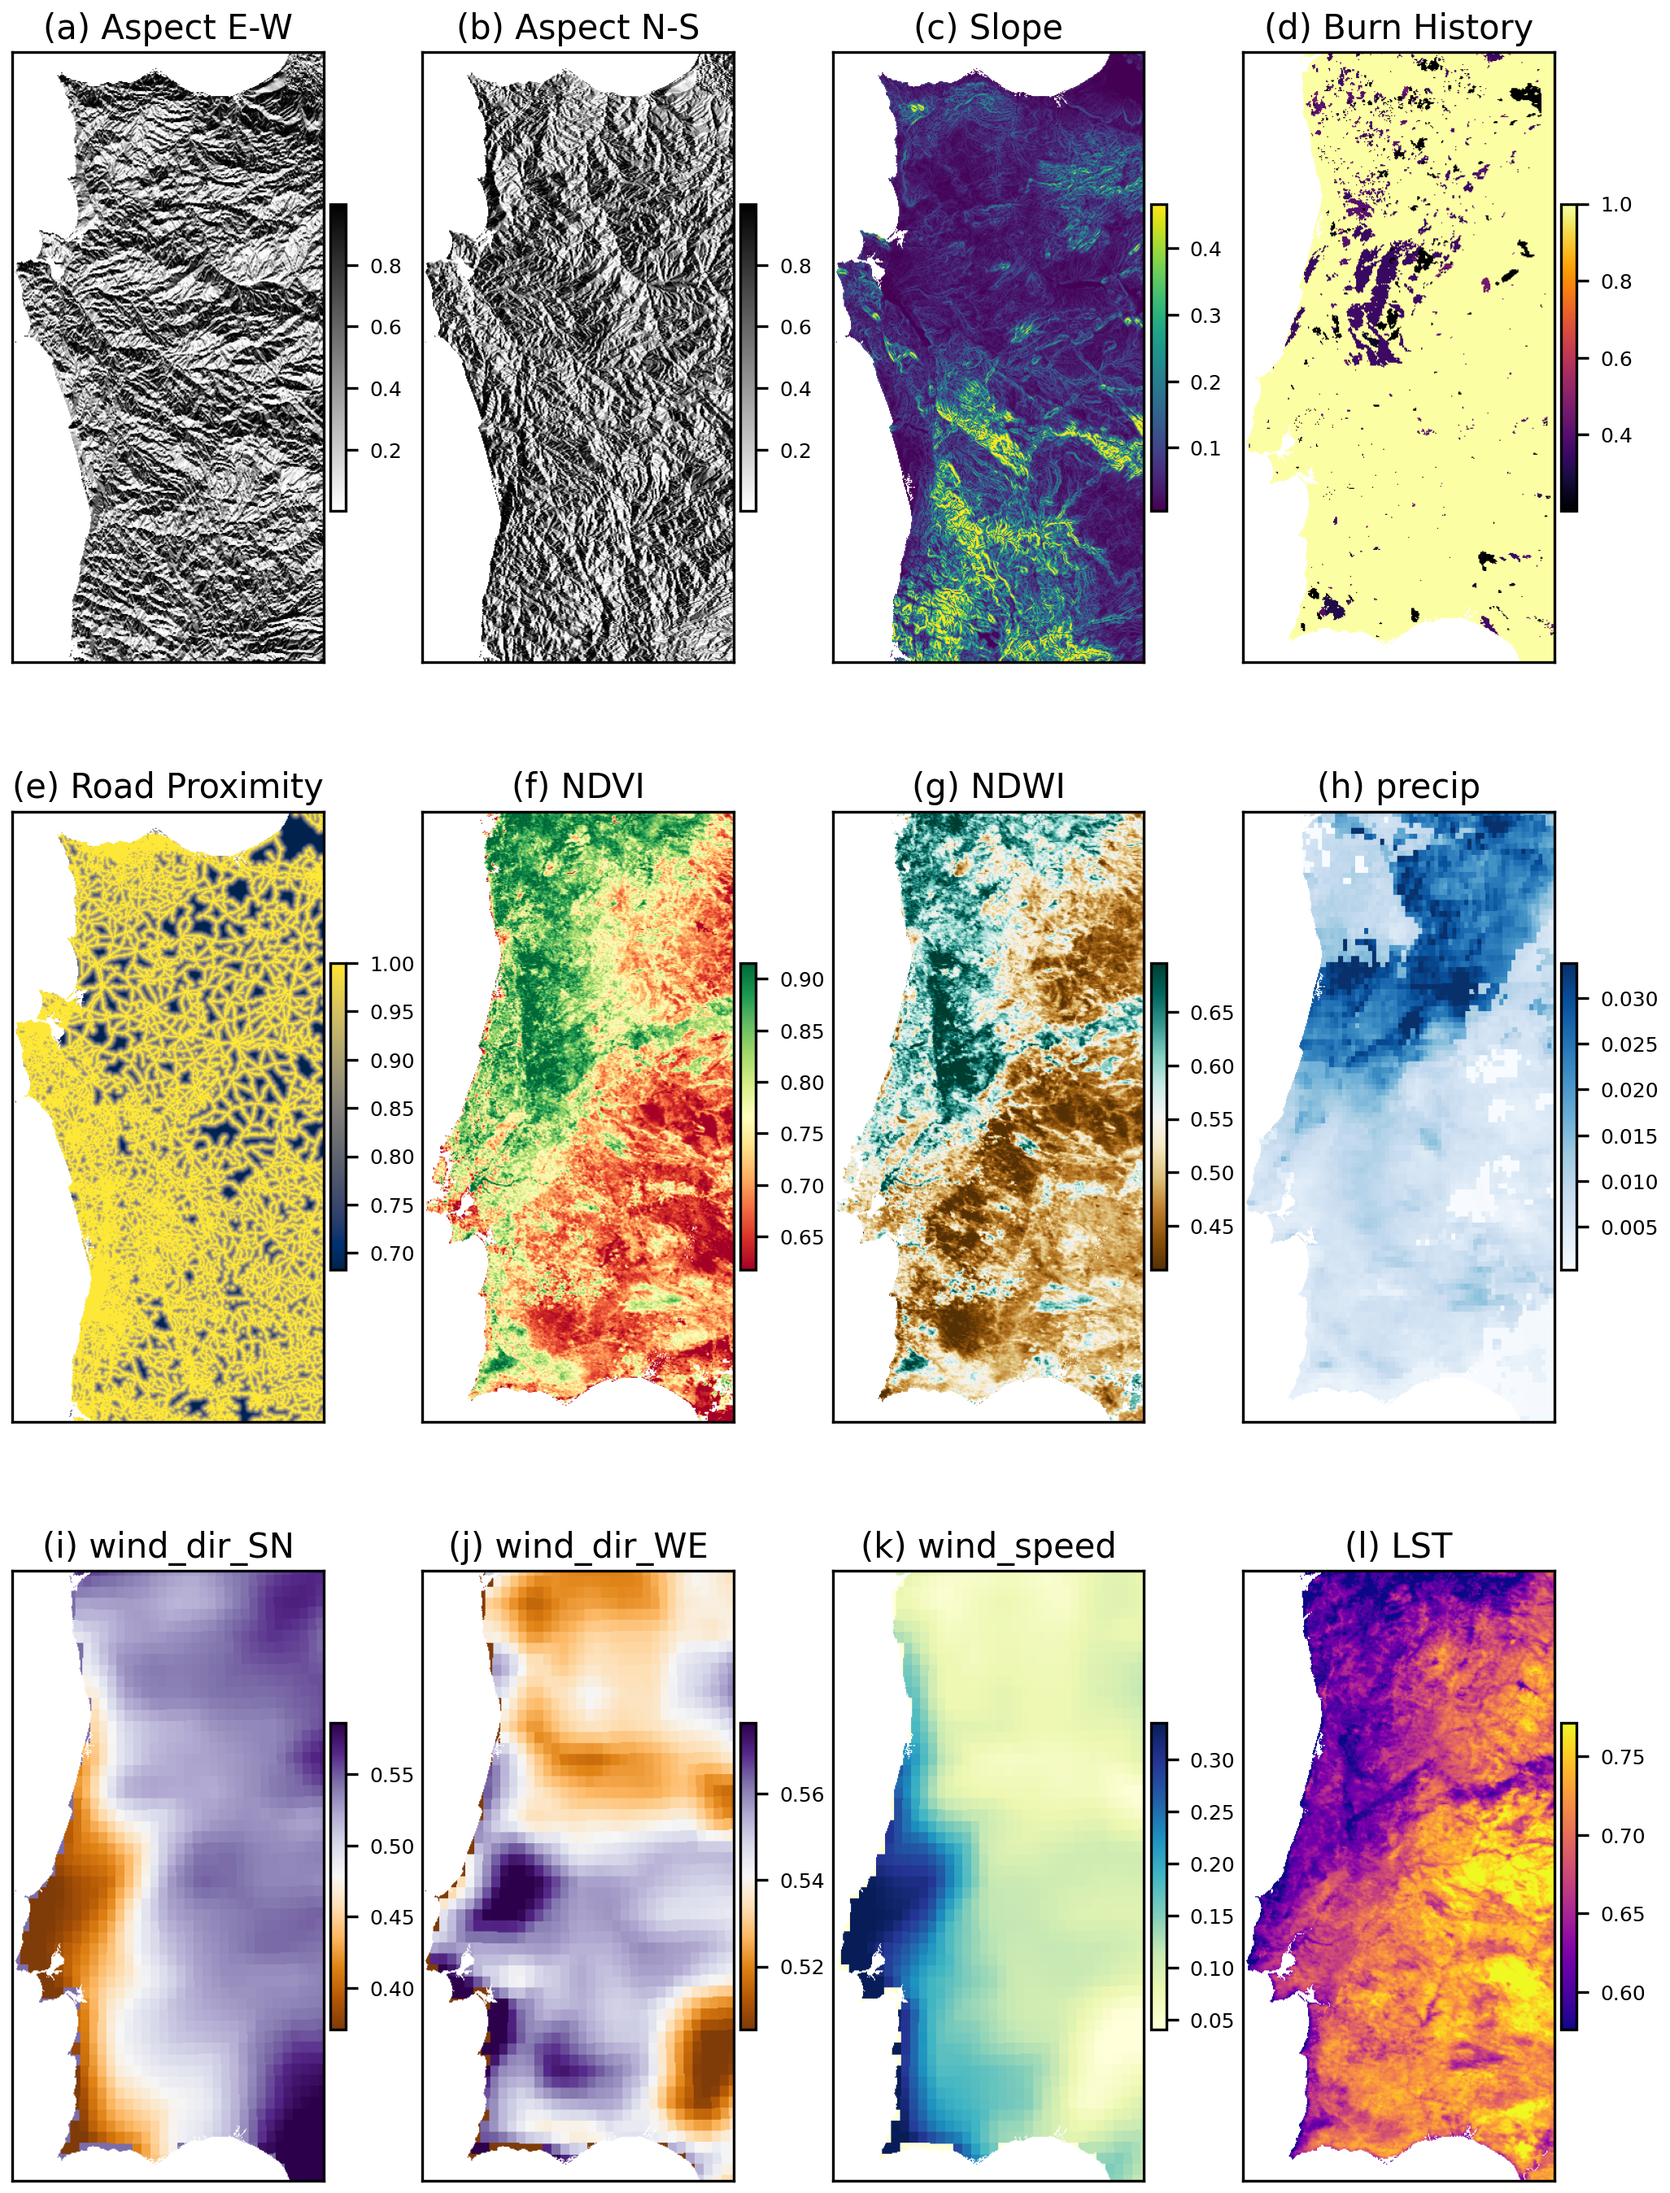
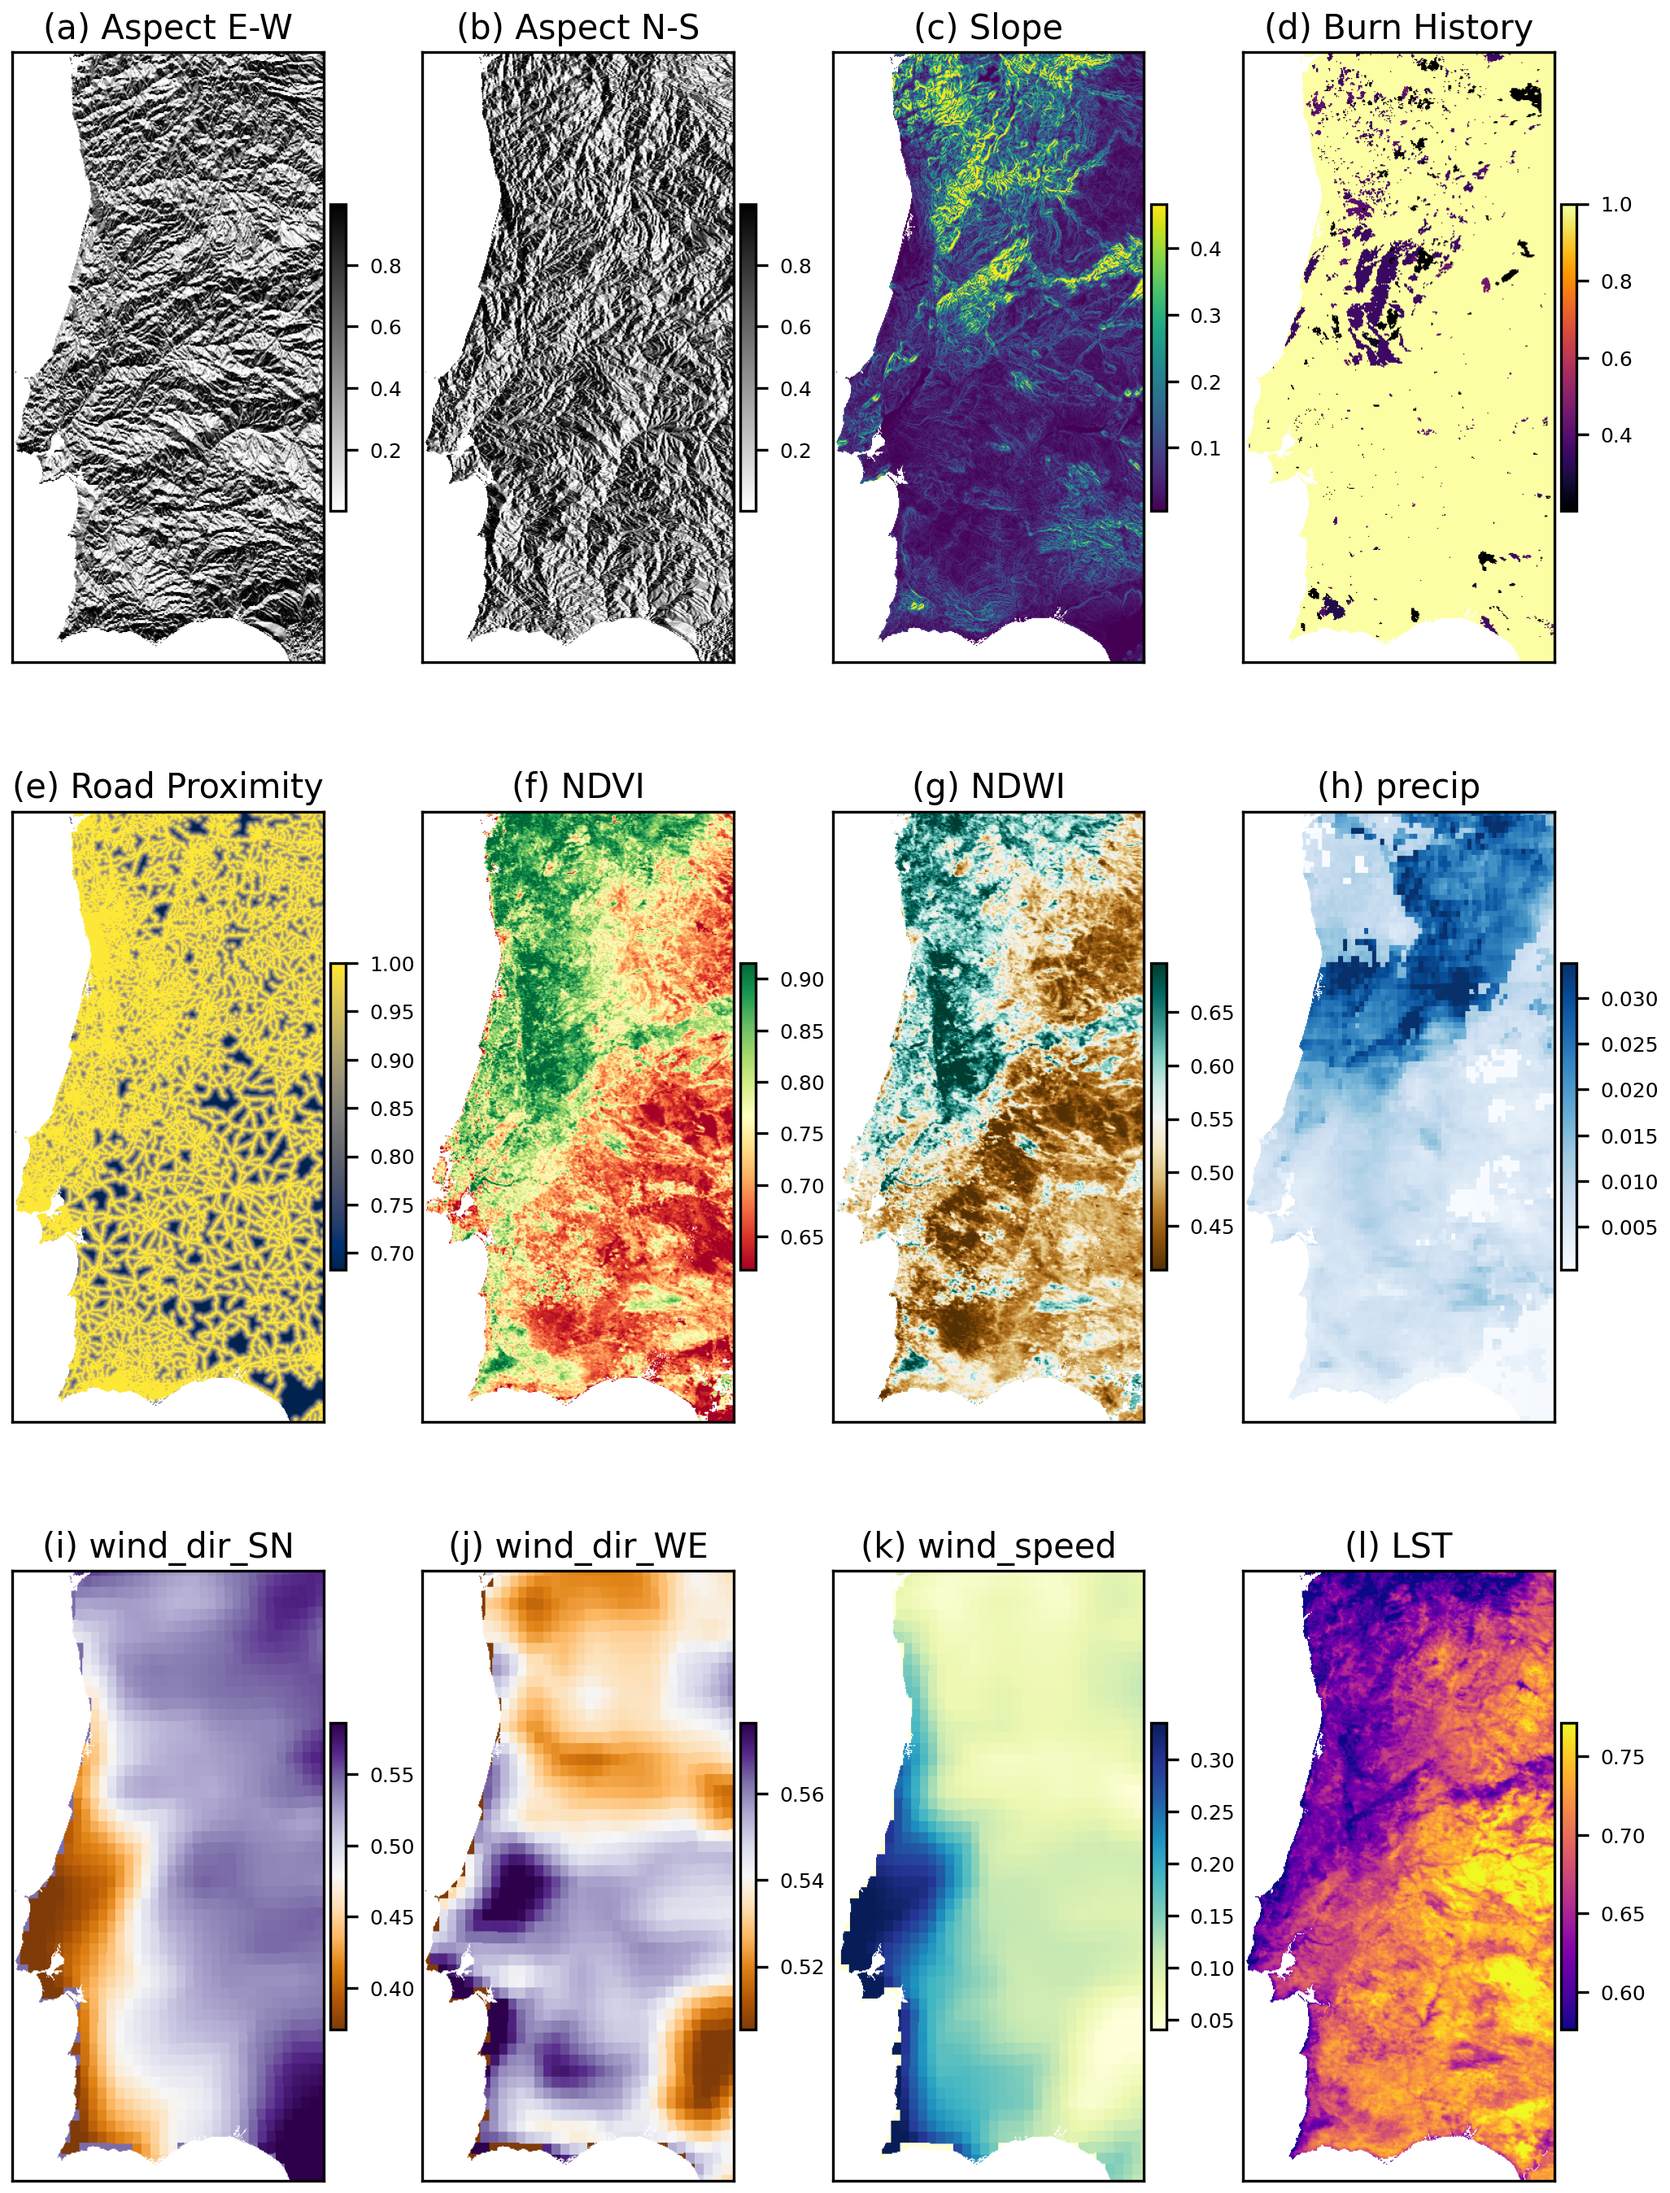
data section

diff --git a/exports/figs_misc/aspect.py b/exports/figs_misc/aspect.py
@@ -1,0 +1,68 @@
+import matplotlib.pyplot as plt
+import numpy as np
+import seaborn as sns
+from matplotlib.patches import Arc
+from pathlib import Path
+
+# Set seaborn theme for a clean appearance
+sns.set_theme(style="whitegrid")
+
+# Define angle in degrees and convert to radians
+angle_deg = 60
+angle_rad = np.radians(angle_deg)
+
+# Vector coordinates (unit vector)
+v_len = 1.0
+vx = v_len * np.cos(angle_rad)
+vy = v_len * np.sin(angle_rad)
+
+# Create figure and axis using subplots
+fig, ax = plt.subplots(figsize=(6, 4))
+
+# Set limits and maintain an equal aspect ratio to prevent distortion
+ax.set_xlim(-0.5, 1.2)
+ax.set_ylim(-0.5, 1.2)
+ax.set_aspect('equal')
+
+# Draw major axes lines at x=0 and y=0
+ax.axhline(0, color='black', linewidth=1.2, zorder=1)
+ax.axvline(0, color='black', linewidth=1.2, zorder=1)
+
+# Draw dashed projection lines from the vector tip to the axes
+ax.plot([vx, vx], [0, vy], color='gray', linestyle='--', linewidth=1.5, zorder=2)
+ax.plot([0, vx], [vy, vy], color='gray', linestyle='--', linewidth=1.5, zorder=2)
+
+# Highlight components on the axes (shadow projections)
+# Using seaborn palette colors for distinction
+colors = sns.color_palette()
+ax.annotate('', xy=(vx, 0), xytext=(0, 0),
+            arrowprops=dict(arrowstyle="->", color=colors[3], lw=3, mutation_scale=15),
+            zorder=3)
+ax.annotate('', xy=(0, vy), xytext=(0, 0),
+            arrowprops=dict(arrowstyle="->", color=colors[0], lw=3, mutation_scale=15),
+            zorder=3)
+
+# Draw the main aspect vector
+ax.annotate('', xy=(vx, vy), xytext=(0, 0),
+            arrowprops=dict(arrowstyle="->", color='black', lw=4, mutation_scale=20),
+            zorder=4)
+
+# Draw the angle arc to specify the orientation
+arc = Arc((0, 0), 0.4, 0.4, angle=0, theta1=0, theta2=angle_deg, color='black', lw=1.5, zorder=5)
+ax.add_patch(arc)
+
+# Labels, mathematical text, and components descriptions
+ax.text(vx + 0.05, vy + 0.05, r'Aspect Vector $\vec{v}$', fontsize=12, fontweight='bold')
+ax.text(vx / 2, -0.08, 'East-West\nComponent ($x$)', color=colors[3], fontsize=11, ha='center', fontweight='bold')
+ax.text(-0.08, vy / 2, 'North-South\nComponent ($y$)', color=colors[0], fontsize=11, va='center', ha='right', fontweight='bold')
+ax.text(0.25 * np.cos(np.radians(angle_deg/2)), 0.25 * np.sin(np.radians(angle_deg/2)), r'$\phi$', fontsize=14, ha='center', va='center')
+
+# Labeling the axes as geographic directions
+ax.set_xlabel('East (+) / West (-)', fontsize=12)
+ax.set_ylabel('North (+) / South (-)', fontsize=12)
+# Ensure nothing is truncated or overlapping
+plt.tight_layout()
+
+# Save the figure
+out_path = Path('exports', 'figs_misc', 'aspect_decomposition.png')
+plt.savefig(out_path, dpi=300)
